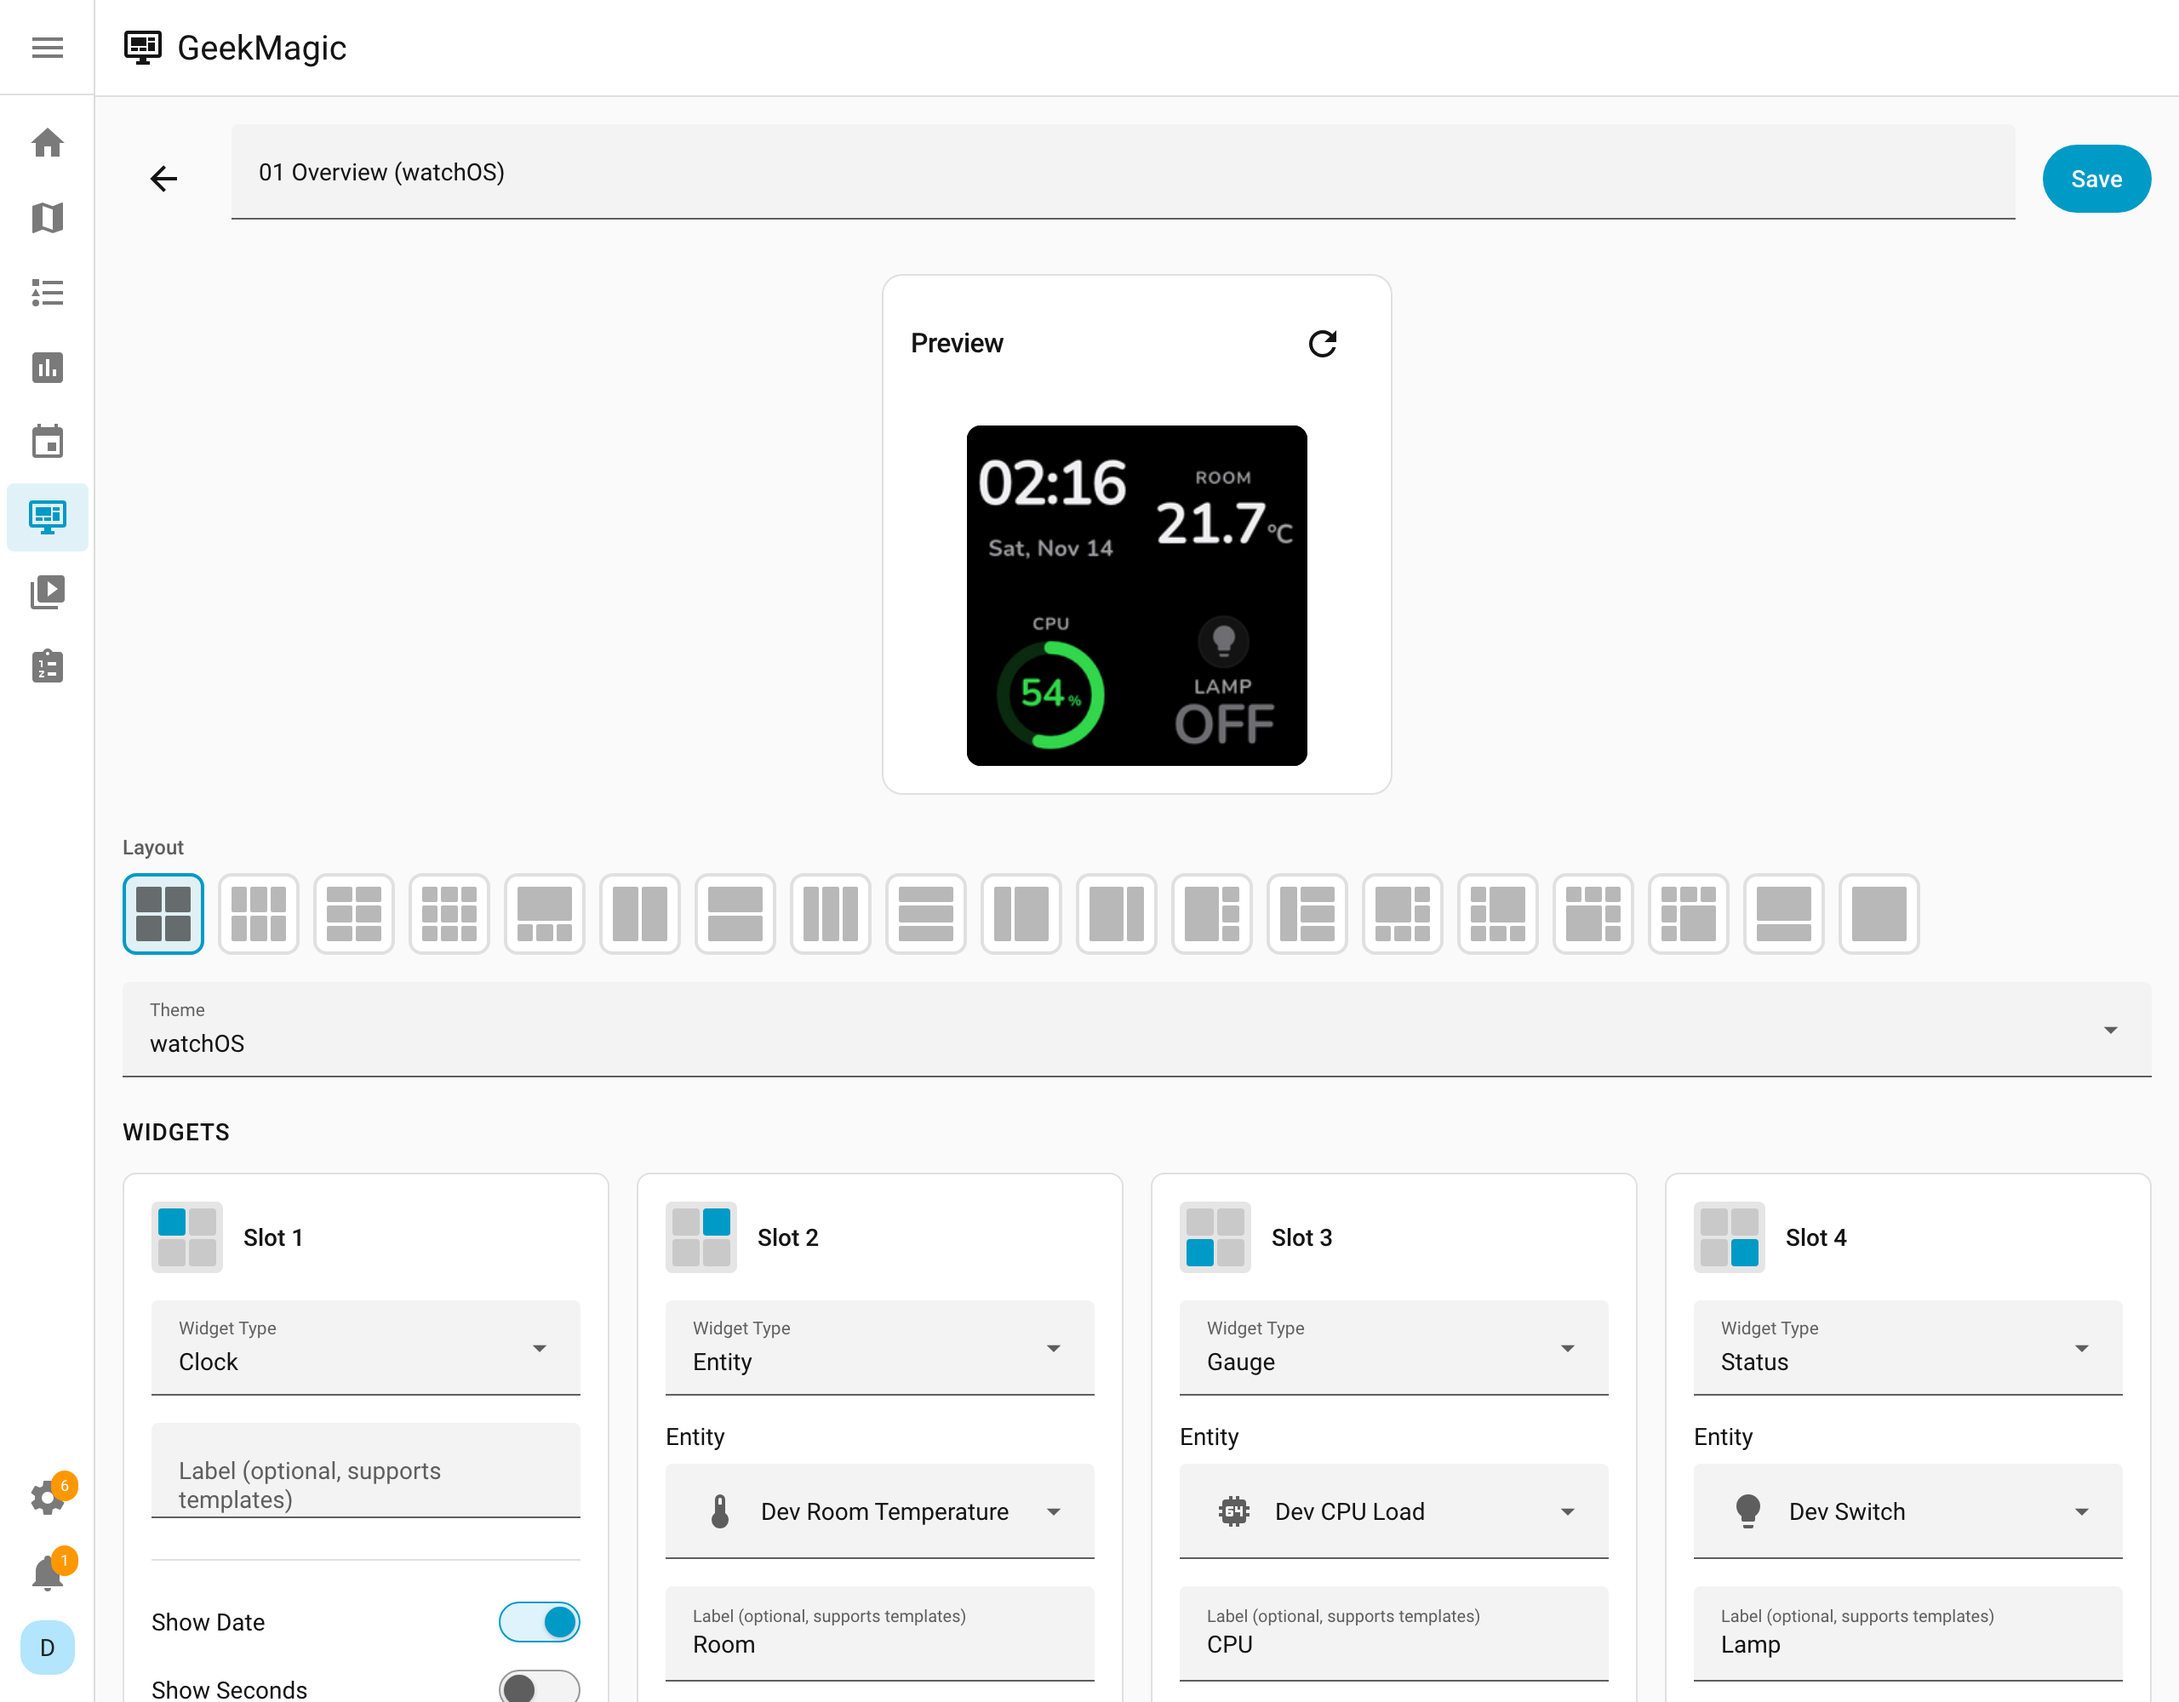
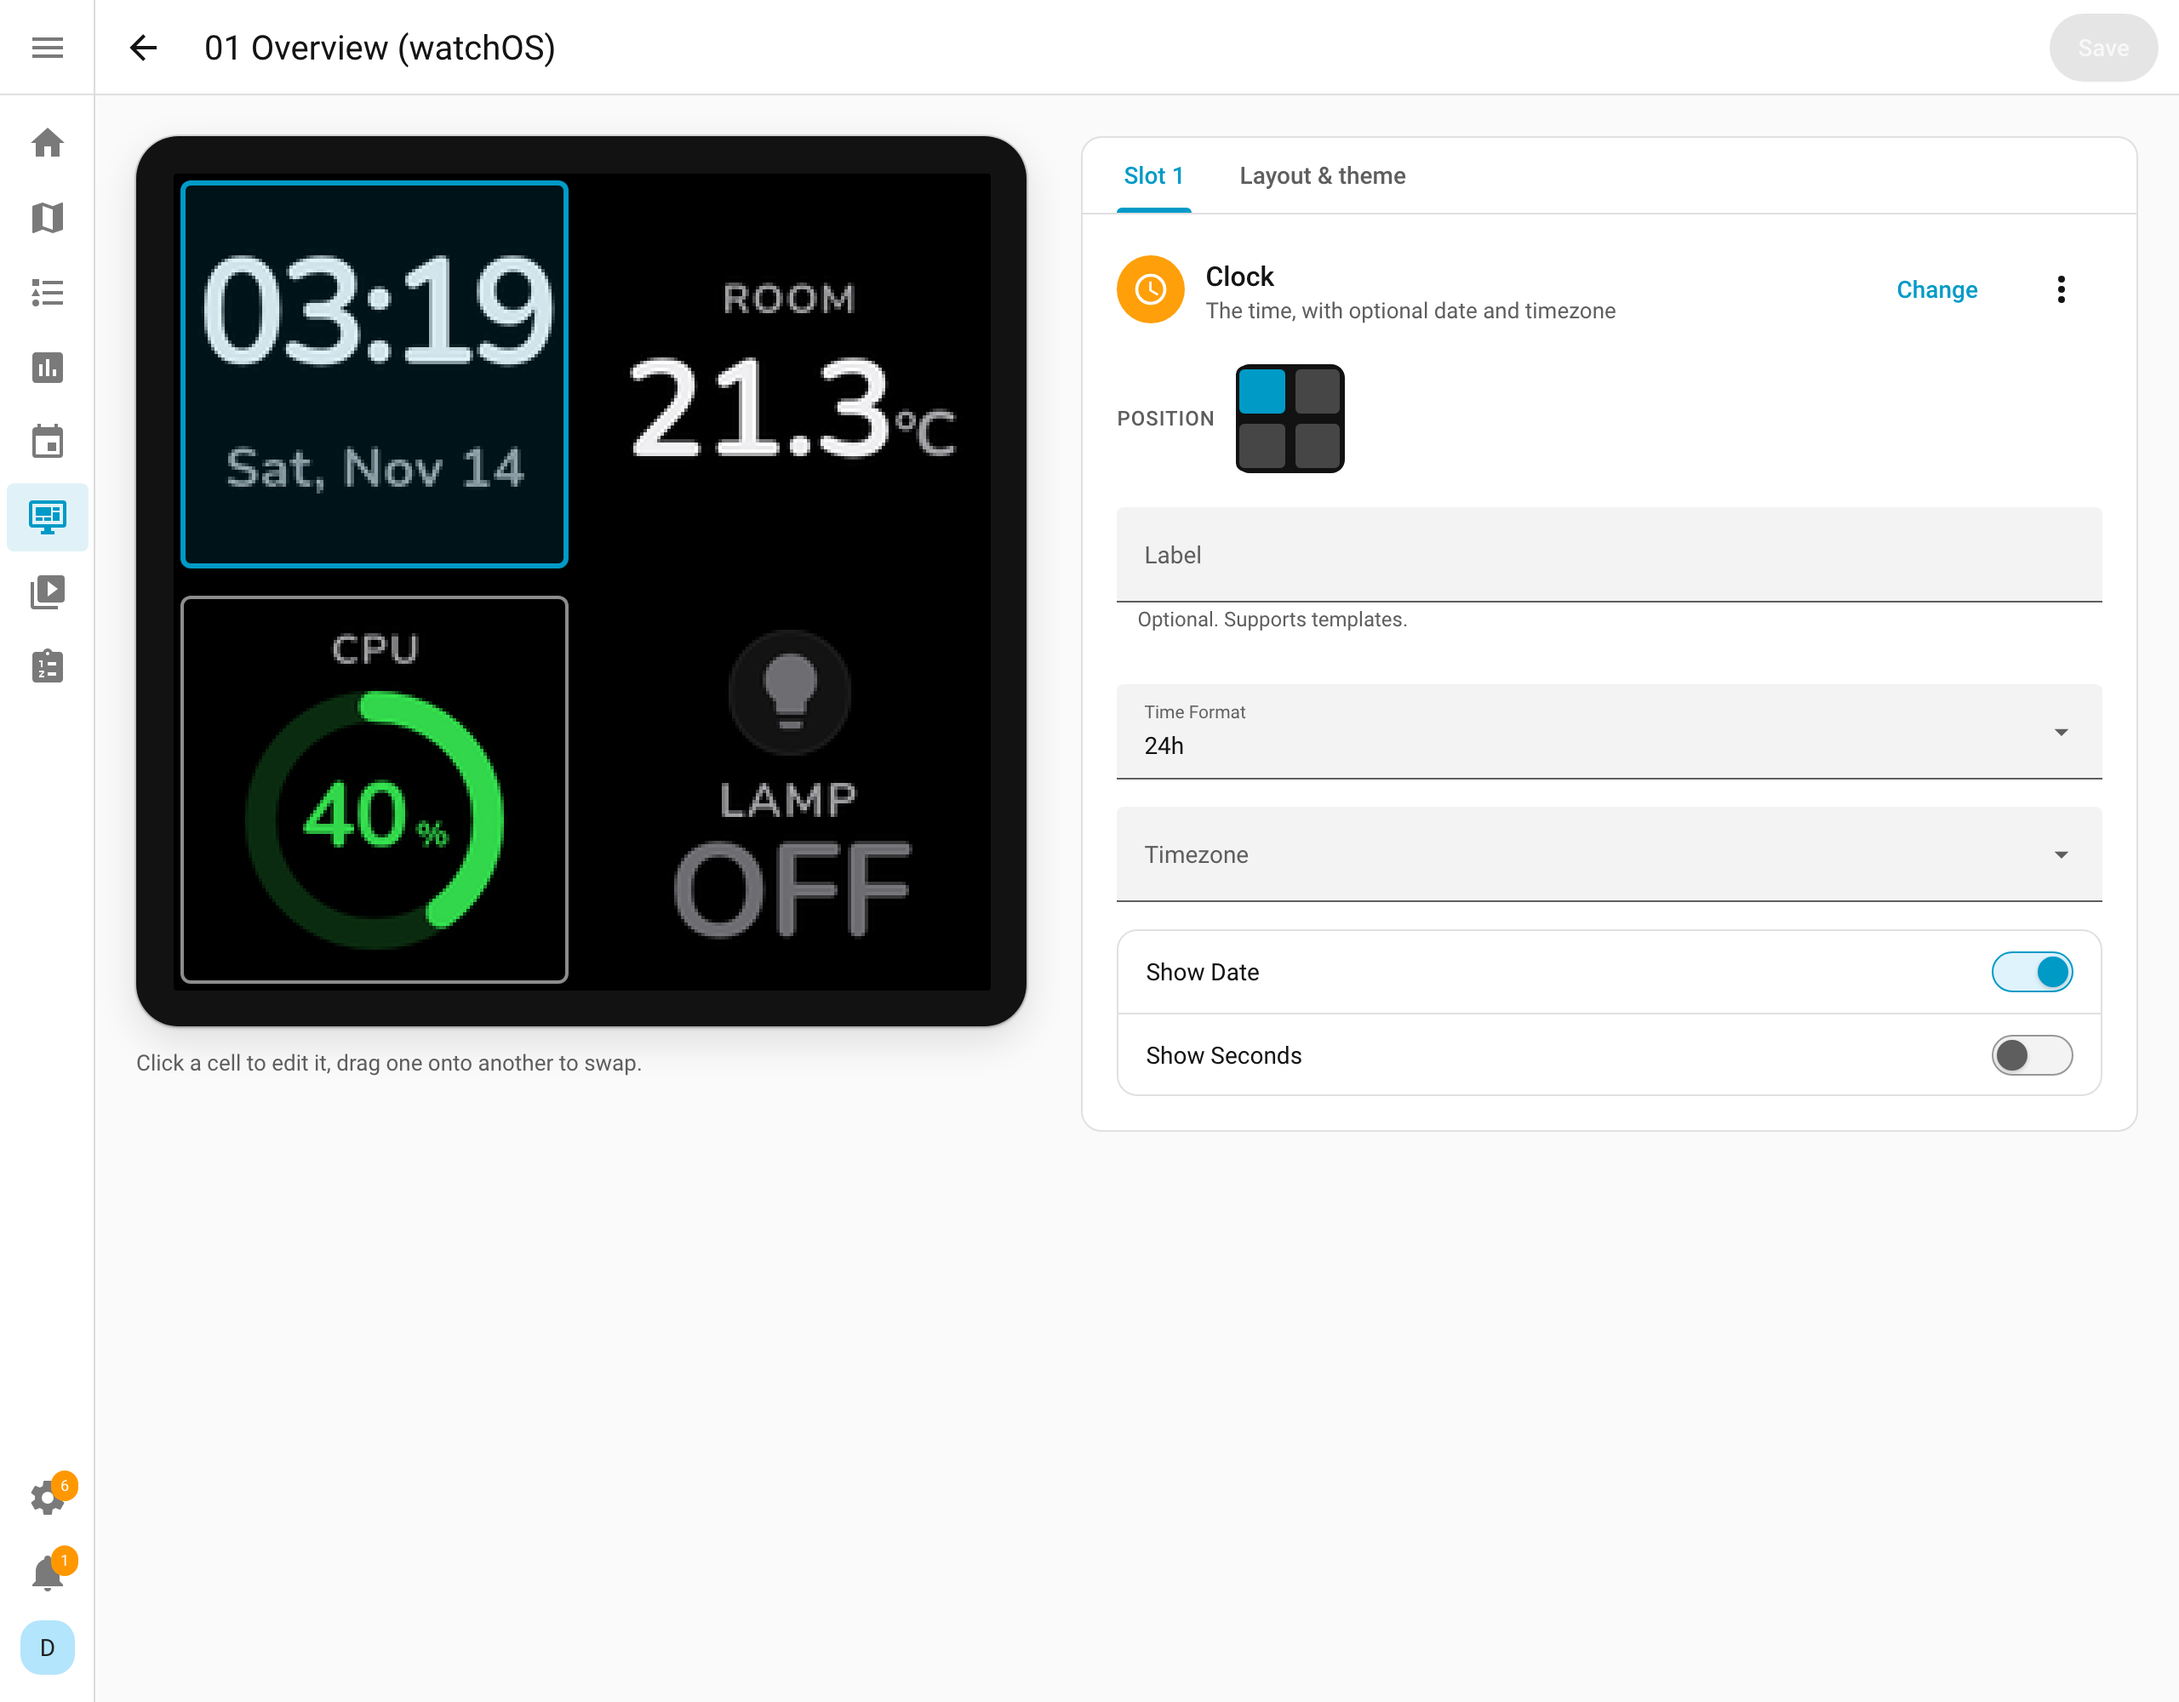
docs: document the redesigned panel
- README: the display card, rotation and views gallery, and the editor
  (click a cell on the preview), with a new main-page screenshot.
- scripts/screenshot_panel.py: a "main" target (docs/panel-main.png),
  part of `scripts/dev-ha screenshot`.
- CLAUDE.md: the panel's structure and which HA elements it relies on;
  new layouts need only a LAYOUT_NAMES entry on the frontend side; new
  widgets declare picker metadata and visible_when.

diff --git a/scripts/screenshot_panel.py b/scripts/screenshot_panel.py
@@ -9,7 +9,8 @@
 Regenerates the README's screenshots on demand:
 
     scripts/dev-ha                       # start the dev HA (seeds device + demo views)
-    scripts/dev-ha screenshot            # writes docs/panel-editor.png + docs/device-info.png
+    scripts/dev-ha screenshot            # writes docs/panel-main.png, panel-editor.png and
+                                         # device-info.png
 
 or one of them, with options, e.g. another view or a dark UI:
 
@@ -36,12 +37,13 @@ from typing import Any
 REPO_ROOT = Path(__file__).resolve().parent.parent
 PORTS_FILE = REPO_ROOT / "dev" / ".state" / "ports.env"
 OUTPUTS = {
+    "main": REPO_ROOT / "docs" / "panel-main.png",
     "editor": REPO_ROOT / "docs" / "panel-editor.png",
     "device": REPO_ROOT / "docs" / "device-info.png",
 }
 # Default viewport height per target: the device page's Configuration card
 # sits below Controls/Sensors, so it needs a taller window.
-HEIGHTS = {"editor": 1000, "device": 1400}
+HEIGHTS = {"main": 1000, "editor": 1000, "device": 1400}
 DEFAULT_VIEW = "01 Overview (watchOS)"
 
 
@@ -125,6 +127,23 @@ def _open_editor(page: Any, url: str, view: str) -> None:
     )
 
 
+def _open_main(page: Any, url: str) -> None:
+    """Open the panel's main page with the display's live screen loaded."""
+    page.goto(f"{url}/geekmagic", wait_until="domcontentloaded")
+    try:
+        page.locator("gm-device-card gm-screen img").first.wait_for(timeout=60_000)
+    except Exception as err:
+        msg = f"no GeekMagic display on {url}/geekmagic (run scripts/dev-ha first)"
+        raise SystemExit(msg) from err
+    # Every gallery thumbnail rendered (they load a few at a time).
+    # Playwright's CSS engine pierces the panel's shadow roots.
+    page.locator("ha-card.view-card").first.wait_for(timeout=60_000)
+    for _ in range(120):
+        if page.locator("ha-card.view-card .skeleton").count() == 0:
+            break
+        page.wait_for_timeout(500)
+
+
 def _open_device(page: Any, url: str) -> None:
     """Open the GeekMagic device's page in Settings → Devices."""
     page.goto(f"{url}/config/devices/dashboard", wait_until="domcontentloaded")
@@ -142,7 +161,7 @@ def _open_device(page: Any, url: str) -> None:
 def screenshot(
     url: str, target: str, output: Path, *, view: str, dark: bool, width: int, height: int
 ) -> None:
-    """Open ``target`` ("editor" or "device") and save a viewport screenshot."""
+    """Open ``target`` ("main", "editor" or "device") and save a viewport screenshot."""
     from playwright.sync_api import sync_playwright  # ty: ignore[import-not-found]
 
     with sync_playwright() as p:
@@ -155,7 +174,9 @@ def screenshot(
         # Collapse HA's sidebar to its icon rail, as on a real desktop.
         context.add_init_script("localStorage.setItem('dockedSidebar', JSON.stringify('auto'))")
         page = context.new_page()
-        if target == "editor":
+        if target == "main":
+            _open_main(page, url)
+        elif target == "editor":
             _open_editor(page, url, view)
         else:
             _open_device(page, url)
@@ -192,7 +213,7 @@ def main() -> int:
 
     targets = list(OUTPUTS) if args.target == "all" else [args.target]
     if args.output and len(targets) > 1:
-        parser.error("-o/--output needs a single target (editor or device)")
+        parser.error("-o/--output needs a single target (main, editor or device)")
 
     _ensure_chromium()
     url = (args.url or _default_url()).rstrip("/")

diff --git a/CLAUDE.md b/CLAUDE.md
@@ -616,8 +616,15 @@ When that happens the fix belongs on `main`, not in the contributor's branch.
 3. Implement `render_html()` and optionally `get_entities()`
 4. Register in `widgets/__init__.py` (`_ALL_WIDGETS` — WIDGET_CLASSES
    and schemas derive from it)
-5. Add tests in `tests/widgets/`
-6. Document it: add a factory to `generate_widget_sizes()` in
+5. Give the `SCHEMA` the panel's picker metadata: `icon` (mdi), `category`
+   (`values`/`home`/`time`/`history`/`pictures`/`custom`), a one-line
+   `description`, and `uses_label: False` if the widget ignores the label.
+   An option that only applies to some choices gets `visible_when`
+   (`{"style": ["bar"]}`: every key must match one of its values, against
+   the stored value or the option's default). `tests/test_panel_metadata.py`
+   checks all of it.
+6. Add tests in `tests/widgets/`
+7. Document it: add a factory to `generate_widget_sizes()` in
    `scripts/generate_samples.py` (renders every cell size), a section in
    `docs/widgets.md` (size row + options), and a row in the README's
    Widgets table (fullscreen / 2×2 / 3×3 only)
@@ -656,15 +663,15 @@ When adding a new layout, update these files:
 
 - `layouts/<name>.py` - Create layout class extending `Layout`
 - `layouts/__init__.py` - Import and export the new class
-- `const.py` - Add `LAYOUT_<NAME>` constant and add to `LAYOUT_SLOT_COUNTS`
+- `const.py` - Add `LAYOUT_<NAME>` constant, add it to `LAYOUT_SLOT_COUNTS`,
+  and give it a display name in `LAYOUT_NAMES`
 - `frame.py` - Add to `LAYOUT_CLASSES` dict
 
 ### 2. Frontend
 
-- `frontend/src/geekmagic-panel.ts`:
-  - Add entry to `layoutConfig` object with CSS class and cell count
-  - Add CSS grid styles for the layout icon visualization in the `<style>` section
-- Run `npm run build` in `frontend/` directory to rebuild
+Nothing to do: the panel draws layout tiles from the slot rects
+`geekmagic/config` computes from the layout class, and the editor's
+click-to-select overlay from the rects each preview returns.
 
 ### 3. Documentation & Samples
 
@@ -796,6 +803,24 @@ See: https://developers.home-assistant.io/docs/asyncio_blocking_operations/
 ## Frontend Panel
 
 The integration includes a custom panel for configuring displays via the HA sidebar.
+
+Structure (`frontend/src/`): `geekmagic-panel.ts` is the shell (loads
+config, views, devices, thumbnails; the main page). `components/` holds
+the elements: `gm-device-card` (live screen, controls, rotation strip),
+`gm-view-editor` (draft, preview, inspector, pickers), `gm-widget-options`
+(option fields and list editors), `gm-screen` (the bezel), `gm-dialog`
+(native `<dialog>`), `gm-menu` (overflow menu). Logic that can be pure is,
+with vitest tests: `view-ops.ts` (edits never mutate the stored view),
+`option-visibility.ts`, `rotation.ts`, `preview-queue.ts` (debounced,
+latest-only renders), `format.ts`. `api.ts` wraps the websocket calls.
+
+Use HA elements whose API is simple and stable (`ha-card`, `ha-button`,
+`ha-icon-button`, `ha-switch`, `ha-slider`, `ha-select` via
+`select-compat.ts`, `ha-input`, `ha-selector`, `ha-alert`, `ha-spinner`).
+Dialogs and menus are our own: `ha-dialog`/`ha-dropdown` changed API
+across 2025-26, and `ha-circular-progress` no longer exists. The panel
+drives devices through their entities (ids from `devices/list`, resolved
+from the registry) and `devices/show_view` (by id; names are ambiguous).
 
 ### Building the Frontend
 

diff --git a/README.md b/README.md
@@ -181,36 +181,27 @@ If DHCP moves your device to a new IP, use **Reconfigure** on the integration en
 
 After installation, a **GeekMagic** item appears in your sidebar.
 
-#### Views tab
+#### Displays and views
 
-Create and manage display views:
+<p align="center">
+  <img src="https://raw.githubusercontent.com/adrienbrault/geekmagic-hacs/main/docs/panel-main.png" alt="GeekMagic panel: a display with its live screen and rotation, and the views gallery" width="700">
+</p>
 
-- **Create views** with the "+ Add View" button
-- **Edit views** by clicking on them
-- **Delete views** via the menu on each card
+- **Each display** shows its live screen, what it is showing now, previous/next, brightness, and **Rotate views** with its interval (the same controls as its entities, see [Entities, services & automations](#entities-services--automations))
+- **Its rotation** is the strip of views below: tap a view to show it now; reorder by dragging or with each view's menu; **+ Add** puts more views in the rotation. The view on screen is ringed
+- **Views** below are every view you have, with which display shows them. Click one to edit it; its menu duplicates or deletes it. **+ Add view** creates one
+- Picking one of the device's built-in modes (Clock, Weather...) with its **Display** select while rotation is on shows it for one interval, then the rotation resumes. Turn rotation off to stay on a built-in mode
 
 #### View editor
-
-The editor provides a live preview and widget configuration:
 
 <p align="center">
   <img src="https://raw.githubusercontent.com/adrienbrault/geekmagic-hacs/main/docs/panel-editor.png" alt="GeekMagic View Editor" width="700">
 </p>
 
-- **Preview**: see the real rendering as you configure
-- **Layout**: pick one of the 19 layouts
-- **Theme**: pick one of the 17 themes
-- **Widgets**: each slot shows a position grid; click cells to swap widget positions
-- **Entity picker**: Home Assistant's native entity selector with filtering
-
-#### Devices tab
-
-Assign views to your GeekMagic devices:
-
-- Check which views each device should display
-- Assigned views form the device's rotation. Cycling is off by default: turn on the device's **View Cycling** switch (starts at 30 s) or set **View Cycle Interval** (1-300 s) to rotate automatically, or switch views by hand with the **Display** select and the next/previous buttons
-- Picking one of the device's built-in modes (Clock, Weather...) while View Cycling is on shows it for one cycle interval, then the rotation resumes with the next view. Turn View Cycling off to stay on a built-in mode
-- Drag to reorder the rotation sequence
+- **The preview is the editor**: it is the real render, and you click a cell on it to edit that widget (arrow keys move between cells, dragging one cell onto another swaps them)
+- **Widgets** are picked from a grouped list; only the options that apply to your choices are shown
+- **Layout & theme**: 19 layouts drawn as tiles, and 17 themes shown as your own view in each theme
+- **Save** keeps you in the editor; leaving with unsaved changes asks first
 
 #### Device info page
 
